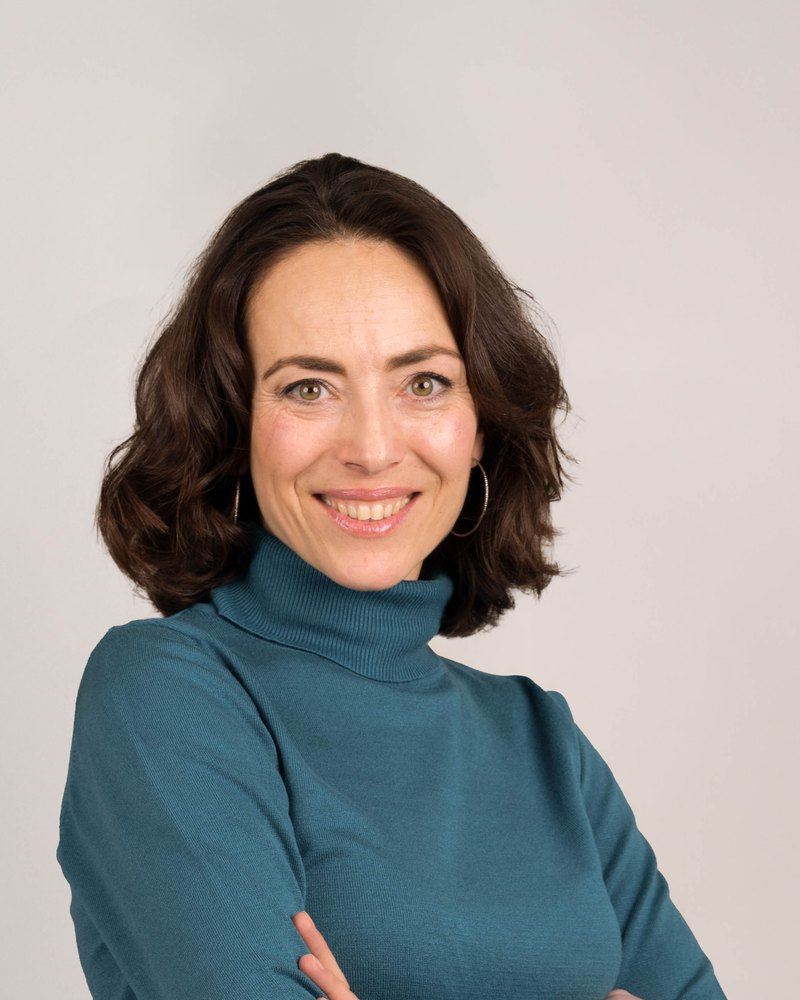
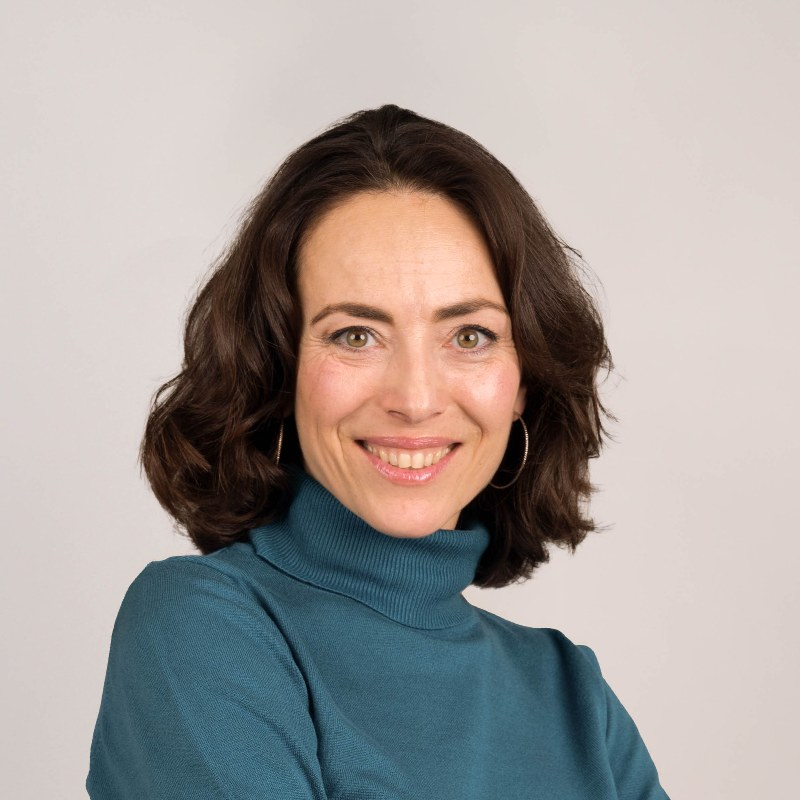
Align Luba's portrait on her face, the way the division heads were aligned
Regenerated from the 4016x6016 original rather than nudged with
object-position: eyes levelled (they sat 2.64 degrees off), then the head sized
and placed by its own silhouette so head width is 44% of the frame and the top
of her hair sits at 13%. Eye line lands at 42.1%.

Centred on the head silhouette, not the eye midpoint: her head is turned
slightly, so the two differ by 28px at source and the eyes finish 1.2% right of
centre. Centring the head is what makes the margin around it even, which is the
thing you see in a circle.

Segmenting on channel spread rather than luminance, because the backdrop is a
near-neutral grey with a vignette running 168-222 and lit skin at 243/188/161
is brighter than parts of it. The backdrop's spread is 8-9, skin's is 82.

The file is square now, so the CSS has no object-position left to guess at.

diff --git a/events/umushroom/index.html b/events/umushroom/index.html
@@ -224,11 +224,10 @@
     .speaker { margin-bottom: var(--space-4); }
     .speaker__photo {
       display: block;
-      /* A circle, like the team page. Square box plus object-fit, with the
-         focal point pulled up the frame so her face sits centred in it rather
-         than her shoulders. */
+      /* A circle, like the team page. The source is a square crop aligned on
+         the face itself -- eyes levelled, head width 44% of the frame, hair top
+         at 13% -- so the box only has to be square. No object-position guess. */
       width: 200px; height: 200px;
-      object-fit: cover; object-position: 50% 14%;
       border-radius: 50%;
       margin-bottom: var(--space-3);
     }
@@ -529,7 +528,7 @@
           <div class="rail">            <div class="speaker">
               <img class="speaker__photo" src="assets/img/events/umushroom/luba-400.jpg"
                    srcset="assets/img/events/umushroom/luba-400.jpg 400w, assets/img/events/umushroom/luba-800.jpg 800w"
-                   sizes="(min-width: 900px) 320px, 100vw" width="400" height="500"
+                   sizes="(min-width: 900px) 200px, 128px" width="400" height="400"
                    alt="Dr. Luba Schoenig" />
               <p class="speaker__name">Dr. Luba Schoenig</p>
               <p class="speaker__role">Founder and CEO, UMushroom</p>
